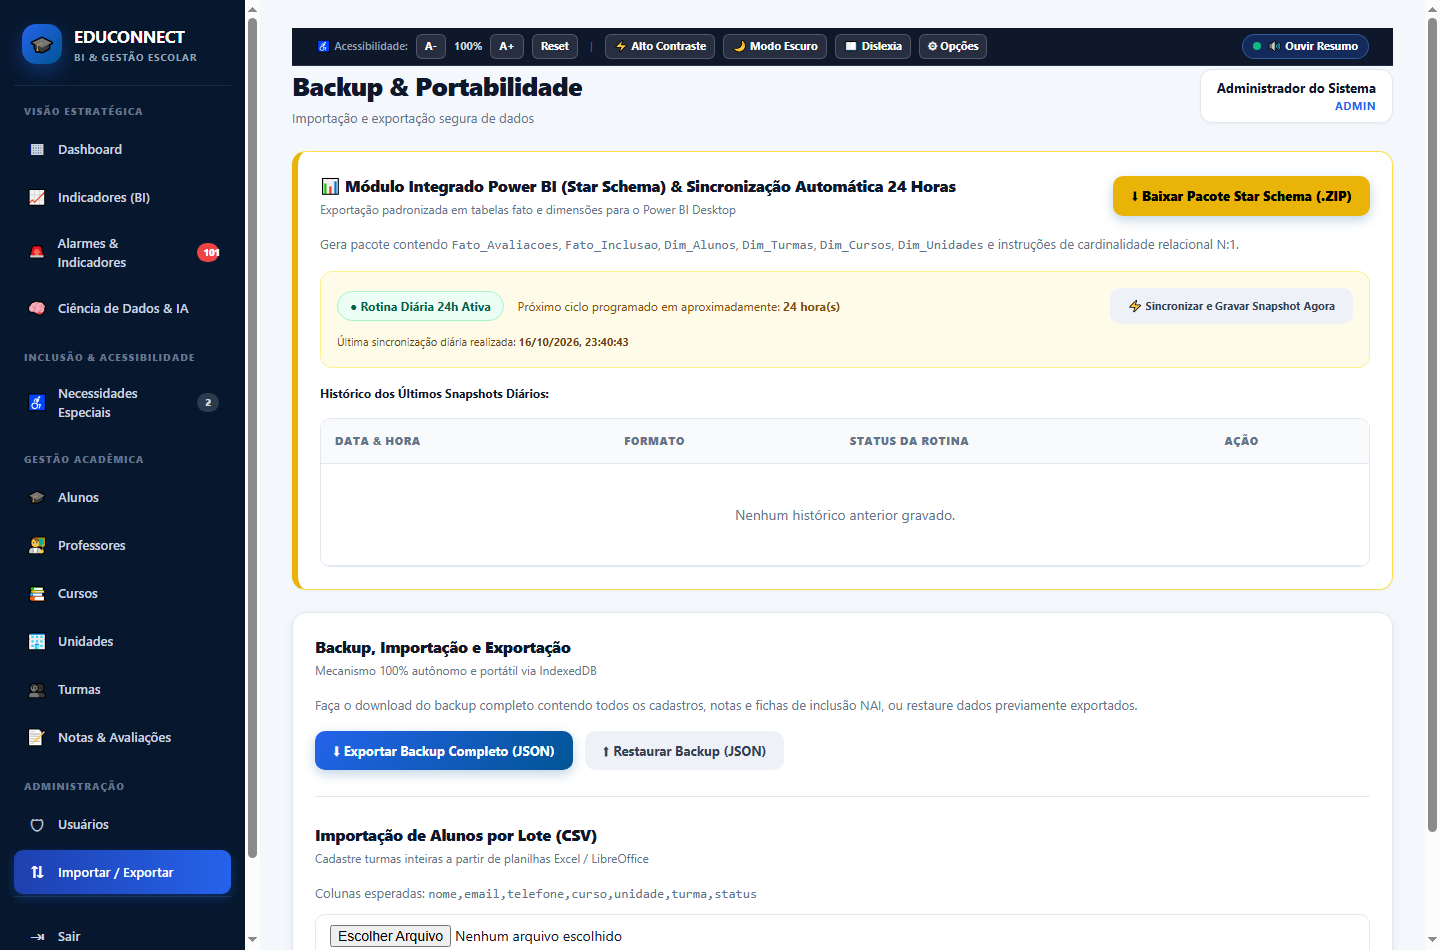
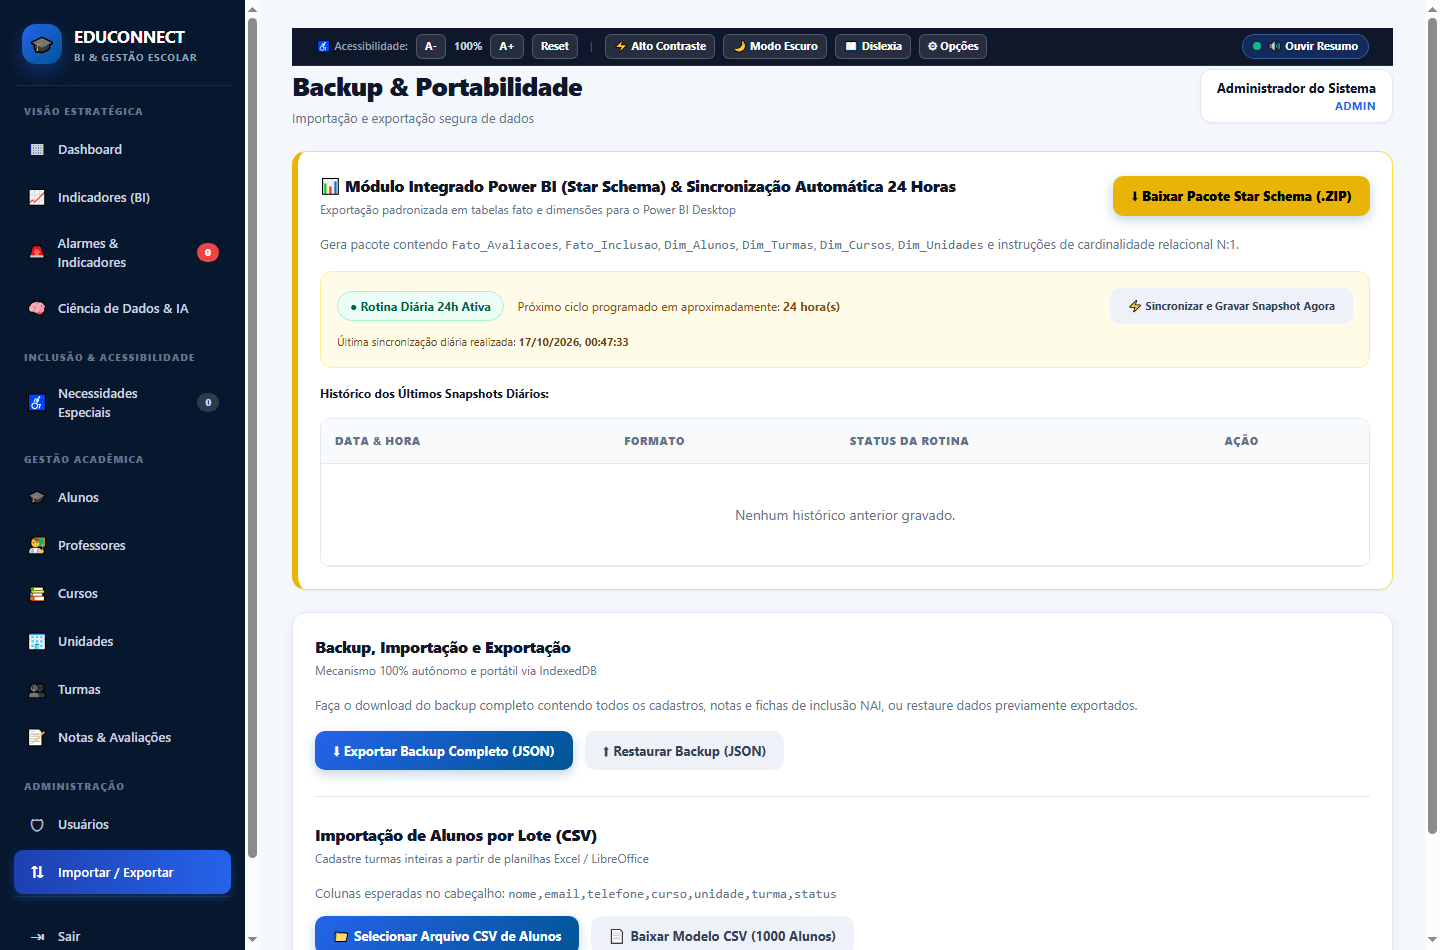
fix: Correcao e otimizacao de importacao CSV em lote, parser RFC 4180 e backup JSON blindado

Changed region(s): [[0.2188, 0.9158, 0.5938, 1.0], [0.4062, 0.3358, 0.4375, 0.3663]]

diff --git a/index.html b/index.html
@@ -1741,11 +1741,12 @@
                     <p style="color:var(--muted);font-size:13px;margin-bottom:16px;">
                         Faça o download do backup completo contendo todos os cadastros, notas e fichas de inclusão NAI, ou restaure dados previamente exportados.
                     </p>
-                    <div class="toolbar">
+                    <div class="toolbar" style="display:flex;gap:12px;flex-wrap:wrap;align-items:center;">
                         <button class="btn primary" onclick="exportBackup()">⬇ Exportar Backup Completo (JSON)</button>
                         <button class="btn secondary" onclick="document.getElementById('backupFile').click()">⬆ Restaurar Backup (JSON)</button>
                         <input id="backupFile" type="file" accept=".json" class="hidden" onchange="importBackup(this)">
                     </div>
+                    <div id="backupStatusMsg" style="margin-top:10px;font-size:12px;font-weight:600;"></div>
 
                     <hr style="border:0;border-top:1px solid var(--border);margin:26px 0;">
 
@@ -1755,12 +1756,19 @@
                             <small>Cadastre turmas inteiras a partir de planilhas Excel / LibreOffice</small>
                         </div>
                     </div>
-                    <p style="font-size:13px;color:var(--muted);margin-bottom:10px;">
-                        Colunas esperadas: <code>nome,email,telefone,curso,unidade,turma,status</code>
+                    <p style="font-size:13px;color:var(--muted);margin-bottom:12px;">
+                        Colunas esperadas no cabeçalho: <code>nome,email,telefone,curso,unidade,turma,status</code>
                     </p>
-                    <input type="file" accept=".csv,text/csv" onchange="importStudentsCSV(this)">
+                    <div style="display:flex;gap:12px;flex-wrap:wrap;align-items:center;margin-bottom:12px;">
+                        <button class="btn primary" onclick="document.getElementById('csvFileInput').click()">📁 Selecionar Arquivo CSV de Alunos</button>
+                        <a href="alunos_importacao_1000.csv" download="alunos_importacao_1000.csv" class="btn secondary" style="text-decoration:none;display:inline-flex;align-items:center;gap:6px;">
+                            <span>📄</span> Baixar Modelo CSV (1000 Alunos)
+                        </a>
+                        <input id="csvFileInput" type="file" accept=".csv,text/csv" class="hidden" onchange="importStudentsCSV(this)">
+                    </div>
+                    <div id="csvImportStatus" style="margin-top:8px;font-size:12px;font-weight:600;"></div>
                     <div style="background:#fffbeb;color:#92400e;padding:12px;border-radius:10px;font-size:12px;margin-top:14px;border:1px solid #fde68a;">
-                        ⚠ Recomenda-se realizar um backup JSON antes de carregar arquivos CSV volumosos.
+                        ⚠ <b>Dica de Performance:</b> O importador processa em lote ultra-rápido via transação única no IndexedDB. Recomenda-se realizar um backup JSON prévio para garantir pontos de restauração.
                     </div>
                 </div>
             </div>
@@ -1861,19 +1869,48 @@
 
         function all(store) {
             return new Promise((res, rej) => {
-                const tx = db.transaction(store, 'readonly');
-                const req = tx.objectStore(store).getAll();
-                req.onsuccess = () => res(req.result || []);
-                req.onerror = () => rej(req.error);
+                if (!db || !db.objectStoreNames.contains(store)) return res([]);
+                try {
+                    const tx = db.transaction(store, 'readonly');
+                    const req = tx.objectStore(store).getAll();
+                    req.onsuccess = () => res(req.result || []);
+                    req.onerror = () => rej(req.error);
+                } catch (e) {
+                    console.warn(`Erro ao ler store ${store}:`, e);
+                    res([]);
+                }
             });
         }
 
         function put(store, obj) {
             return new Promise((res, rej) => {
-                const tx = db.transaction(store, 'readwrite');
-                const req = tx.objectStore(store).put(obj);
-                req.onsuccess = () => res(req.result);
-                req.onerror = () => rej(req.error);
+                if (!db || !db.objectStoreNames.contains(store)) return rej(new Error(`Store ${store} não existe no IndexedDB`));
+                try {
+                    const tx = db.transaction(store, 'readwrite');
+                    const req = tx.objectStore(store).put(obj);
+                    req.onsuccess = () => res(req.result);
+                    req.onerror = () => rej(req.error);
+                } catch (e) {
+                    rej(e);
+                }
+            });
+        }
+
+        function putBatch(store, items) {
+            return new Promise((res, rej) => {
+                if (!items || !items.length) return res(0);
+                if (!db || !db.objectStoreNames.contains(store)) return rej(new Error(`Store ${store} não existe`));
+                try {
+                    const tx = db.transaction(store, 'readwrite');
+                    const st = tx.objectStore(store);
+                    for (let i = 0; i < items.length; i++) {
+                        st.put(items[i]);
+                    }
+                    tx.oncomplete = () => res(items.length);
+                    tx.onerror = () => rej(tx.error);
+                } catch (e) {
+                    rej(e);
+                }
             });
         }
 
@@ -3574,92 +3611,248 @@
             showPage(currentPage);
         }
 
+        /* ==================== PARSER DE CSV ROBUSTO (PADRÃO RFC 4180) ==================== */
+        function parseCSV(text) {
+            text = (text || '').replace(/^\uFEFF/, '').trim();
+            if (!text) return { headers: [], rows: [] };
+
+            // Detecta se o delimitador dominante é vírgula ou ponto-e-vírgula
+            const firstLine = text.split(/\r?\n/)[0];
+            const commaCount = (firstLine.match(/,/g) || []).length;
+            const semiCount = (firstLine.match(/;/g) || []).length;
+            const sep = semiCount > commaCount ? ';' : ',';
+
+            const lines = text.split(/\r?\n/).filter(x => x.trim().length > 0);
+            if (!lines.length) return { headers: [], rows: [] };
+
+            function parseLine(line) {
+                const result = [];
+                let cur = '';
+                let inQuotes = false;
+                for (let i = 0; i < line.length; i++) {
+                    const c = line[i];
+                    if (c === '"') {
+                        if (inQuotes && line[i + 1] === '"') {
+                            cur += '"';
+                            i++;
+                        } else {
+                            inQuotes = !inQuotes;
+                        }
+                    } else if (c === sep && !inQuotes) {
+                        result.push(cur.trim());
+                        cur = '';
+                    } else {
+                        cur += c;
+                    }
+                }
+                result.push(cur.trim());
+                return result.map(v => v.replace(/^["']|["']$/g, '').trim());
+            }
+
+            const rawHeaders = parseLine(lines[0]);
+            // Normaliza cabeçalhos removendo acentos e convertendo para minúsculas
+            const headers = rawHeaders.map(h => h.toLowerCase().normalize('NFD').replace(/[\u0300-\u036f]/g, '').trim());
+
+            const rows = [];
+            for (let i = 1; i < lines.length; i++) {
+                const values = parseLine(lines[i]);
+                if (!values || !values.length || values.every(v => !v)) continue;
+                const row = {};
+                headers.forEach((h, idx) => {
+                    row[h] = values[idx] !== undefined ? values[idx] : '';
+                });
+                rows.push(row);
+            }
+            return { headers, rows };
+        }
+
         /* ==================== IMPORTAÇÃO / EXPORTAÇÃO & BACKUP TOTAL ==================== */
         async function exportBackup() {
-            const stores = ['students', 'teachers', 'courses', 'units', 'classes', 'grades', 'users', 'inclusion', 'interventions', 'alarm_rules'];
-            const data = {
-                version: DBVERSION,
-                exportedAt: new Date().toISOString()
-            };
-            for (const s of stores) {
-                data[s] = await all(s);
+            const statusEl = document.getElementById('backupStatusMsg');
+            if (statusEl) {
+                statusEl.innerHTML = '<span style="color:#0284c7;">⏳ Coletando dados institucionais do IndexedDB...</span>';
             }
-            const blob = new Blob([JSON.stringify(data, null, 2)], { type: 'application/json' });
-            const a = document.createElement('a');
-            a.href = URL.createObjectURL(blob);
-            a.download = `educonnect-backup-completo-${new Date().toISOString().slice(0, 10)}.json`;
-            a.click();
-            URL.revokeObjectURL(a.href);
+
+            try {
+                const stores = ['students', 'teachers', 'courses', 'units', 'classes', 'grades', 'users', 'inclusion', 'interventions', 'alarm_rules'];
+                const data = {
+                    version: DBVERSION,
+                    appName: 'EDUCONNECT',
+                    system: 'Sistema Integrado de Gestão Escolar & BI Educacional SENAI',
+                    exportedAt: new Date().toISOString()
+                };
+
+                for (const s of stores) {
+                    data[s] = await all(s);
+                }
+
+                const jsonStr = JSON.stringify(data, null, 2);
+                const blob = new Blob([jsonStr], { type: 'application/json;charset=utf-8' });
+                const url = URL.createObjectURL(blob);
+                const a = document.createElement('a');
+                a.style.display = 'none';
+                a.href = url;
+                a.download = `educonnect-backup-completo-${new Date().toISOString().slice(0, 10)}.json`;
+                document.body.appendChild(a);
+                a.click();
+
+                setTimeout(() => {
+                    document.body.removeChild(a);
+                    URL.revokeObjectURL(url);
+                }, 1500);
+
+                if (statusEl) {
+                    statusEl.innerHTML = `<span style="color:#10b981;">✓ Backup exportado com sucesso (${(blob.size / 1024).toFixed(1)} KB)!</span>`;
+                }
+            } catch (err) {
+                console.error('Erro na exportação de backup:', err);
+                if (statusEl) {
+                    statusEl.innerHTML = `<span style="color:#ef4444;">✕ Erro ao exportar backup: ${esc(err.message)}</span>`;
+                }
+                alert('Erro ao gerar arquivo de backup: ' + err.message);
+            }
         }
 
         async function importBackup(inp) {
-            const file = inp.files[0];
+            const file = inp.files && inp.files[0];
             if (!file) return;
-            if (!confirm('Atenção: A restauração substituirá integralmente os dados atuais pelo conteúdo deste arquivo. Continuar?')) return;
+
+            if (!confirm('Atenção: A restauração substituirá integralmente os dados atuais pelo conteúdo deste arquivo de backup JSON. Deseja continuar?')) {
+                inp.value = '';
+                return;
+            }
+
+            const statusEl = document.getElementById('backupStatusMsg');
+            if (statusEl) {
+                statusEl.innerHTML = '<span style="color:#0284c7;">⏳ Restaurando registros no banco de dados local...</span>';
+            }
 
             try {
                 const text = await file.text();
                 const data = JSON.parse(text);
                 const stores = ['students', 'teachers', 'courses', 'units', 'classes', 'grades', 'users', 'inclusion', 'interventions', 'alarm_rules'];
 
+                let totalRestored = 0;
                 for (const s of stores) {
+                    if (!db.objectStoreNames.contains(s)) continue;
+                    const items = data[s] || [];
                     await new Promise((res, rej) => {
                         const tx = db.transaction(s, 'readwrite');
                         const st = tx.objectStore(s);
                         st.clear();
-                        (data[s] || []).forEach(item => st.put(item));
+                        items.forEach(item => st.put(item));
                         tx.oncomplete = res;
-                        tx.onerror = rej;
+                        tx.onerror = () => rej(tx.error);
                     });
+                    totalRestored += items.length;
                 }
-                alert('Backup restaurado com sucesso! A aplicação será recarregada.');
+
+                if (statusEl) {
+                    statusEl.innerHTML = `<span style="color:#10b981;">✓ ${totalRestored} registros restaurados! Recarregando...</span>`;
+                }
+
+                inp.value = '';
+                alert(`Backup restaurado com sucesso! ${totalRestored} registros foram importados. A aplicação será recarregada.`);
                 location.reload();
             } catch (e) {
-                console.error(e);
-                alert('Arquivo de backup inválido ou incompatível.');
+                console.error('Erro ao restaurar backup:', e);
+                inp.value = '';
+                if (statusEl) {
+                    statusEl.innerHTML = `<span style="color:#ef4444;">✕ Arquivo de backup inválido ou incompatível: ${esc(e.message)}</span>`;
+                }
+                alert('Arquivo de backup inválido ou incompatível: ' + e.message);
             }
         }
 
         async function importStudentsCSV(inp) {
-            const file = inp.files[0];
+            const file = inp.files && inp.files[0];
             if (!file) return;
-            const text = (await file.text()).replace(/^\uFEFF/, '');
-            const lines = text.split(/\r?\n/).filter(x => x.trim());
-            if (lines.length < 2) {
-                alert('O arquivo CSV não possui linhas de dados suficientes.');
-                return;
+
+            const statusEl = document.getElementById('csvImportStatus');
+            if (statusEl) {
+                statusEl.innerHTML = '<span style="color:#0284c7;">⏳ Lendo planilha e processando discentes...</span>';
             }
 
-            const sep = lines[0].includes(';') ? ';' : ',';
-            const headers = lines[0].split(sep).map(x => x.trim().toLowerCase());
-            const [courses, units, classes] = await Promise.all([all('courses'), all('units'), all('classes')]);
+            try {
+                const text = await file.text();
+                const { headers, rows } = parseCSV(text);
 
-            let count = 0;
-            for (const line of lines.slice(1)) {
-                const v = line.split(sep).map(x => x.trim());
-                const o = Object.fromEntries(headers.map((h, i) => [h, v[i] || '']));
-                if (!o.nome) continue;
+                if (!rows.length) {
+                    alert('O arquivo CSV selecionado não contém linhas de dados.');
+                    if (statusEl) statusEl.innerHTML = '';
+                    inp.value = '';
+                    return;
+                }
 
-                const course = courses.find(c => c.name.toLowerCase() === (o.curso || '').toLowerCase());
-                const unit = units.find(u => u.name.toLowerCase() === (o.unidade || '').toLowerCase());
-                const cl = classes.find(c => c.name.toLowerCase() === (o.turma || '').toLowerCase());
+                const [courses, units, classes] = await Promise.all([all('courses'), all('units'), all('classes')]);
 
-                await put('students', {
-                    registration: String(new Date().getFullYear()) + String(Math.floor(10000 + Math.random() * 90000)),
-                    name: o.nome,
-                    email: o.email || '',
-                    phone: o.telefone || '',
-                    status: (o.status || 'ATIVO').toUpperCase(),
-                    courseId: course?.id || null,
-                    unitId: unit?.id || null,
-                    classId: cl?.id || null
-                });
-                count++;
+                const norm = str => String(str || '').toLowerCase().normalize('NFD').replace(/[\u0300-\u036f]/g, '').trim();
+
+                const findCourse = val => {
+                    const n = norm(val);
+                    return courses.find(c => norm(c.name) === n || norm(c.code) === n);
+                };
+                const findUnit = val => {
+                    const n = norm(val);
+                    return units.find(u => norm(u.name) === n || norm(u.city) === n);
+                };
+                const findClass = val => {
+                    const n = norm(val);
+                    return classes.find(c => norm(c.name) === n);
+                };
+
+                const studentsToInsert = [];
+                const baseYear = new Date().getFullYear();
+
+                for (let i = 0; i < rows.length; i++) {
+                    const o = rows[i];
+                    // Busca por variações de nome de coluna
+                    const name = o.nome || o.name || o.aluno || o.estudante;
+                    if (!name) continue;
+
+                    const course = findCourse(o.curso || o.course);
+                    const unit = findUnit(o.unidade || o.unit);
+                    const cl = findClass(o.turma || o.class);
+
+                    const reg = o.matricula || o.registration || (String(baseYear) + String(10000 + studentsToInsert.length + Math.floor(Math.random() * 89999)));
+
+                    studentsToInsert.push({
+                        registration: String(reg),
+                        name: name,
+                        email: o.email || '',
+                        phone: o.telefone || o.phone || '',
+                        status: (o.status || 'ATIVO').toUpperCase() === 'INATIVO' ? 'INATIVO' : 'ATIVO',
+                        courseId: course ? course.id : (courses[0]?.id || null),
+                        unitId: unit ? unit.id : (units[0]?.id || null),
+                        classId: cl ? cl.id : (classes[0]?.id || null)
+                    });
+                }
+
+                if (!studentsToInsert.length) {
+                    alert('Nenhum discente válido foi identificado no arquivo CSV. Certifique-se de que o cabeçalho inclui a coluna "nome".');
+                    if (statusEl) statusEl.innerHTML = '';
+                    inp.value = '';
+                    return;
+                }
+
+                // Inserção em Lote ultrarrápida via transação única
+                await putBatch('students', studentsToInsert);
+
+                if (statusEl) {
+                    statusEl.innerHTML = `<span style="color:#10b981;">✓ ${studentsToInsert.length} alunos importados com sucesso! Redirecionando...</span>`;
+                }
+
+                alert(`${studentsToInsert.length} aluno(s) importado(s) com sucesso na plataforma!`);
+                inp.value = '';
+                showPage('students');
+            } catch (err) {
+                console.error('Erro na importação de alunos via CSV:', err);
+                inp.value = '';
+                if (statusEl) {
+                    statusEl.innerHTML = `<span style="color:#ef4444;">✕ Erro ao processar arquivo CSV: ${esc(err.message)}</span>`;
+                }
+                alert('Erro ao processar o arquivo CSV: ' + err.message);
             }
-
-            alert(`${count} aluno(s) importado(s) com sucesso.`);
-            inp.value = '';
-            showPage('students');
         }
 
         /* ==================== NAVEGAÇÃO & CONTROLE DE SESSÃO ==================== */
